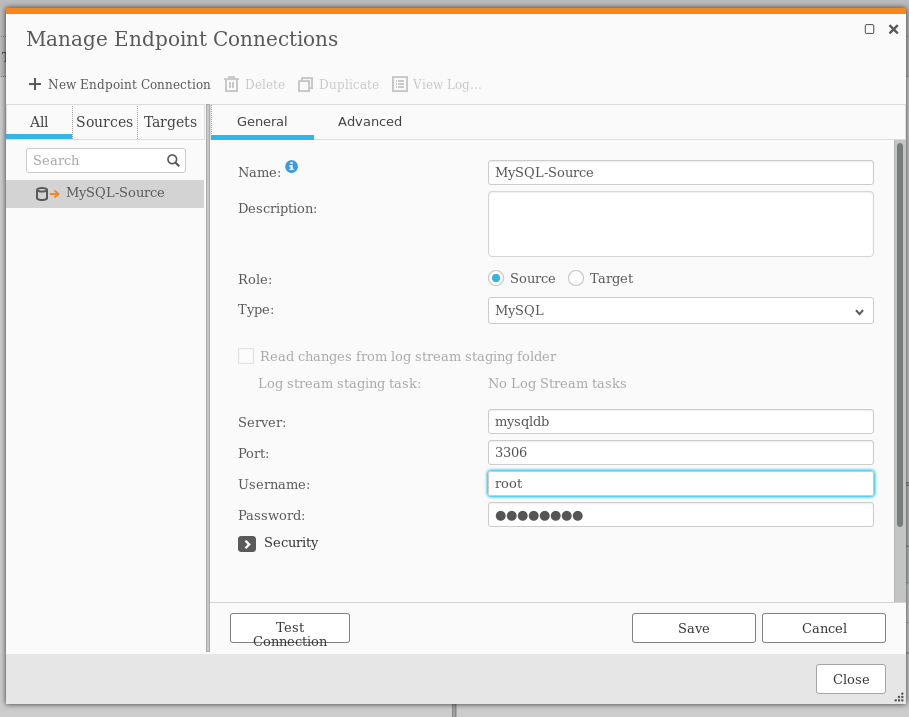
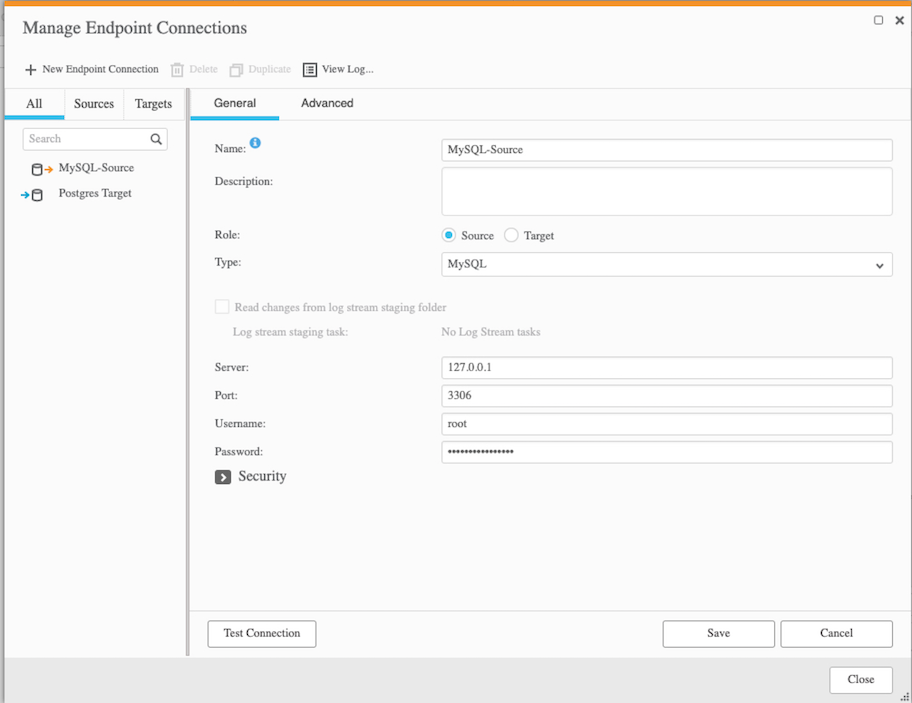
Agenda Revision

Changed region(s): [[0.0, 0.0, 1.0, 1.0], [0.4312, 0.0896, 0.462, 0.1494], [0.4928, 0.1195, 0.5237, 0.1494]]

diff --git a/content/_index.md b/content/_index.md
@@ -3,21 +3,21 @@
 # Welcome to Qlik Tutorial for AWS Immersion Day 2021! 
 ________________________________________________________________
 ## Agenda (10 AM - 3:30 PM)
-* **10:00 am** Welcome & AWS Introduction – Tony Song (AWS Immersion Day Leader)
-* **10:20 am** The Lake House architecture: the right tool for the right job - Dilip Rajan (AWS Partner Solution Architect)
-* **Break**
-* **11:30 am** Deliver real-time, Active Intelligence – Qlik Introduction  
+* **10:00 am** Welcome & AWS Introduction - Tony Song (Immersion Day Leader, AWS)
+* **10:20 am** The Lake House architecture: the right tool for the right job - Dilip Rajan (Partner Solution Architect, AWS)
+* **11:00 am** Deliver real-time, Active Intelligence – Qlik Introduction  
     * **Demo:** Unlock your SAP data for Cloud Analytics
-* **Lunch Break**
+* **11:35 pm Qlik Demo Lab1** - MySQL to Postgres Using Qlik Replicate
+* **12:00 pm** - **Lunch Break**
 * **1:00 pm** Event Engine account signup - Dilip Rajan, John Park (Solution Architect, Qlik)
-* **1:20 pm Qlik Lab1** - MySQL to Postgres Using Qlik Replicate
-* **1:45 pm Qlik Lab2** - MySQL to Kafka Using Qlik Replicate
-* **Break**
-* **2:20 pm Qlik Lab3** - MySQL to Amazon Redshift Using Qlik Replicate
-* **2:40 pm**
-    * **Demo:** Machine Learning Evolved - AWS SageMaker Integration to Qlik – John Park(Solution Architect, Qlik)
+* **1:20 pm Qlik Lab2** - MySQL to Kafka Using Qlik Replicate
+* **1:40 pm Qlik Lab3** - MySQL to Amazon Redshift Using Qlik Replicate
+* **2:00 pm** - **Qlik Data Integration**
+    * **Demo:** Agile data warehouse automation - Qlik Compose - John Park(Solution Architect, Qlik)
+* **2:10 pm** - **Qlik Data Analytics**
+    * **Demo:** Machine learning evolved - AWS SageMaker Integration to Qlik – John Park(Solution Architect, Qlik)
     * **Demo:** Modern, AI-powered analytics: Qlik Sense Saas - Dalton Ruer (Solution Architect, Qlik)
-* **3:00 pm** Wrap up & AWS event survey
+* **2:30 pm** Wrap up & AWS event survey
 
 
 __The Objective of this tutorial is to get introductory hands-on experience using Qlik Data Integration Tools not to become an expert at using Qlik Replicate.__

diff --git a/content/tutorials.md b/content/tutorials.md
@@ -5,8 +5,9 @@
 First things first, we need to open Qlik Replicate. Open Replicate  in a new tab in your broswer. 
 For host username and password please refer to [GettingStarted Page](../getting_started)
 
-*****__Please note that you may need to press accept security and proceed for certificate__*****
+#### *****__Please note that you may need to press accept security and proceed for certificate__*****
 
+  
 Once you are logged in you will see the main screen for Qlik Replicate.
 
 ![](/images/attunityreplicate.jpg)

diff --git a/content/db-mysql-source.md b/content/db-mysql-source.md
@@ -36,10 +36,10 @@ You will notice as we proceed that the content of the configuration window is co
 ![MySQL Source 3 Image](/images/mysql-src-3.png)
 
 Fill in the blanks as indicated in the images above:
-* Server: `mysqldb`
+* Server: ``
 * Port: `3306`
 * User: `root`
-* Password: {% include getPassword.php %}
+* Password: `Aws_immersion123`
 * Security/SSL Mode: `None`
 
 and then click on `Test Connection`. Your screen should look like the following, indicating that

diff --git a/content/db-run-task.md b/content/db-run-task.md
@@ -19,12 +19,12 @@ see it in action.
 
 If you would like to explore the data that we have delviered to Postgres, click on the folowing link:
 
-__http://localhost:5430__
+__http://<your_ip_address>:5430__
 
 This link will open PGAdmin in another window in your browser. Log in with:
 
 * User: `pgadmin@qlik.com`
-* Password: aws_immersion2021
+* Password: `Aws_immersion`
 
 ![PGAdmin 1 Image](/images/pgadmin-1.png)
 

diff --git a/content/db-postgres-target.md b/content/db-postgres-target.md
@@ -35,10 +35,10 @@ like  `Postgres Target`,
 ![Postgres Target 2 Image](/images/postgres-trg-2.png)
 
 Fill in the blanks as indicated in the image above:
-* Host: `postgresdb`
+* Host: `localhost`
 * Port: `5432`
-* User: `qlik`
-* Password: {% include getPassword.php %}
+* User: `qlik123`
+* Password: `Aws_immersion123`
 * Database: `qlikdb`
 * Security/SSL Mode: `disable`
 
